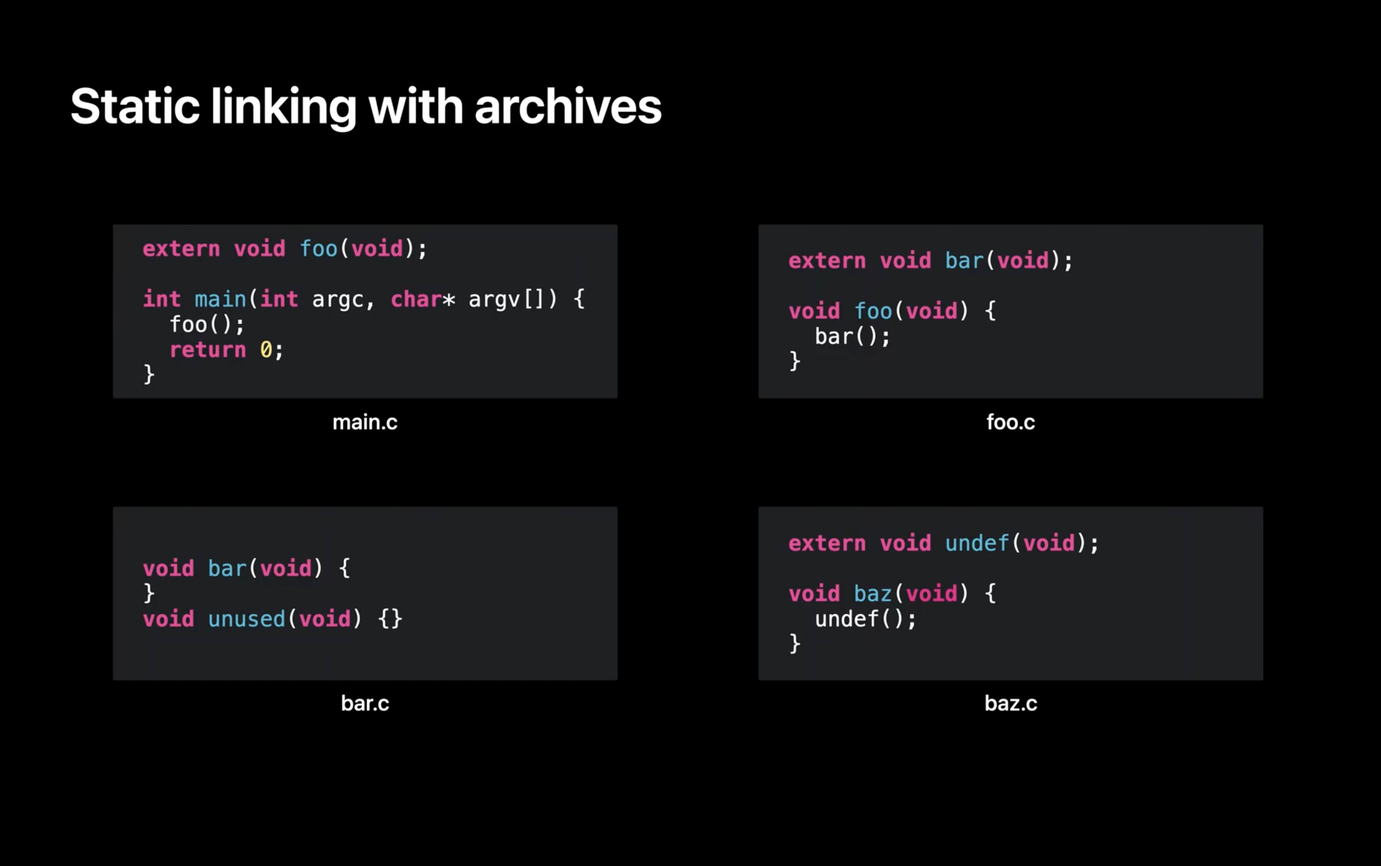
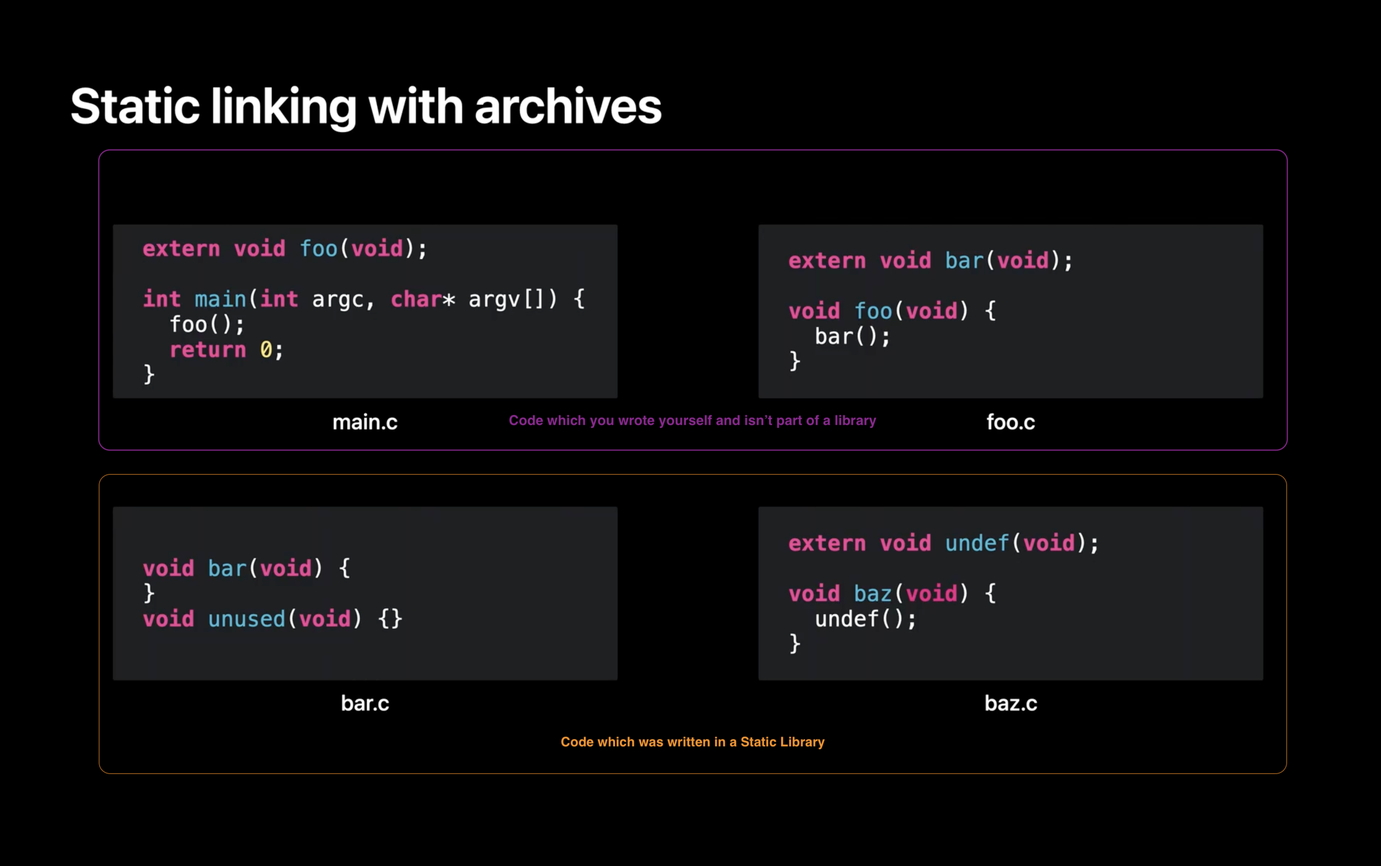
finished linker post with images + added notes to the jargon post

Changed region(s): [[0.3721, 0.4667, 0.6202, 0.4978], [0.4031, 0.84, 0.5892, 0.8711]]

diff --git a/content/posts/devtools/Optimizing App Size/How Does The Linker Help Reduce app Size/index.md b/content/posts/devtools/Optimizing App Size/How Does The Linker Help Reduce app Size/index.md
@@ -1,30 +1,34 @@
 ---
-title: "Optimizing Binaries - How Does the Linker Help Reduce App Size? What are the different types of linking"
-date: 2023-01-07T15:04:27-05:00
+title: "Optimizing Binaries - How Does the Linker Help Reduce App Size? What are the different types of linking - Part 1"
+date: 2023-07-04T15:04:27-05:00
 draft: true
 category: "Devtools"
 tags: ["Static Linking", "Dynamic Linking", "Static vs Dynamic Linking", ld, dyld]
+ShowToc: true
 ---
 
-In the previous post we talked about a problem with the linker: Linking a single function from a library could link to the _entire_ library. This creates a lot of bloat. 
-Some more enhancements were made to linker. 
+In the [previous post](https://mfaani.com/posts/devtools/optimizing-app-size/jargon/#a-big-final-program) we talked about a problem with the linker: Linking a single function from a library could link to the _entire_ library. This creates a lot of bloat. 
+As a result some enhancements were made to linker. The enhancement was to be selective and only load symbols that you need.
 
-But before we dive deeper, it's critical that I note something. To understand 'Static' vs 'Dynamic'. Don't try to compare 'Static Library' vs 'Dynamic Library'. Instead try to compare "Static Linking' vs. 'Dynamic Linking'. If you understand that then you understand everything else. 
+Inspired by [Link fast: Improve build and launch times - 4:15](https://developer.apple.com/videos/play/wwdc2022/110362/?time=255):
 
 ## Selective Loading
 
-In a nutshell if you have the following code: 
+In a nutshell if you have the following source code written in C:
 
-!["images/Static Linking"](static-linking-example.png)
+!["images/Static Linking"](images/static-linking-example.png)
 
-`extern` means that the function is coming from an external file. Without it the individual file won't compile.  
+`extern` means that the function is coming from an external file. Without mentioning `extern` the individual file won't compile. 
 
 ### File Structure
-- In main.c, there's a function called "main" that calls a function "foo". 
+
+As you can see above, some functions depend on other functions: 
+
+- In main.c, there's a function called main that calls a function foo. 
 - In foo.c, there is foo which calls bar. In bar.c, there is the implementation of bar but also an implementation of another function which happens to be unused. 
 - Lastly, in baz.c, there is a function baz which calls a function named undef. 
 
-Now we compile each to its own .o file. 
+Now we compile each to its own [.o file](https://mfaani.com/posts/devtools/optimizing-app-size/jargon/#files). 
 
 - foo, bar, and undef are undefined [They're marked with `extern` i.e. they're not defined within the file that attempts to use them]. That is, a use of a symbol and not a definition. 
 
@@ -32,6 +36,9 @@ Now, let's say you decide to combine bar.o and baz.o into a static library. Next
 
 ### How linker works
 First, the linker works through the files in command line order. The first it finds is main.o. It loads main.o and finds a definition for "main", shown here in the symbol table. But also finds that main has an undefined "foo". 
+
+- main is defined in main.o because we have its implementation and definition. 
+- foo is undefined, because we don't have its definition nor its implementation. We only know that it's external
 
 The linker then parses the next file on the command line which is foo.o. This file adds a definition of "foo". That means foo is no longer undefined. But loading foo.o also adds a new undefined symbol for "bar". 
 
@@ -43,12 +50,20 @@ At that point there are no longer any undefined symbols, so the linker stops pro
 
 The linker moves on to its next phase, and assigns addresses to all the functions and data that will be in the program. Then it copies all the functions and data to the output file. Et voila! You have your output program.
 
-## Still confused. Let's try answering some common questions:
+!["images/Static Linking"](images/static-linking-example-linked-object-files.png "The object files within the blue container are linked. The function named 'unused' is also linked. It's because its containing object file was needed because of the bar function")
 
-### When does the linker finish?
-As soon as they're no longer any undefined symbols. The linker is much like fixing a puzzle. You start with a piece, its edges need other pieces to complete. You keep on adding more pieces. You stop when the last piece is added. Since there's nothing more to add. 
+### Summary of Static Library
+
+You only include object files that you link against. If you don't link against them, then they don't get included in the final binary.
+
+With that said, the level of control for selecting source code is not the 'type level' nor 'function level'. It's at the 'file level'. This was demonstrated in the example above where `unused` function is linked into the final binary, while the entire baz object file is excluded.
+## Let's answer some common Linker questions:
+
+### When does the linker finish linking object files?
+As soon as they're no longer any undefined symbols. The linker is much like fixing a puzzle. You start with a piece, its edges need other pieces to complete. You keep on adding more pieces. You stop when the last piece is added. Anything remaining is redundant.
 
 ### How are the compiler and linker different? 
+See my previous post on [Optimzing App Size - Jargon#Concepts](http://localhost:1313/posts/devtools/optimizing-app-size/jargon/#concepts)
 The compiler needs to know what the other symbols are in order to compile code that uses them.  
 The linker combines these object code files into an executable. The linker needs to know where the other symbols are in order to link code objects that use them.
 
@@ -64,17 +79,15 @@ A bit more about the Linker:
 > All it does is move and patch code. It cannot create [object] code, and this is important and I will show that in the example. 
 > But we take these two kinds of input files. The first one being object files. Which are what come out of your build process. And the second one being libraries which consist of several types including dylibs, [tbd's](https://developer.apple.com/videos/play/wwdc2018/415/?time=2858), and .a files (or static archives).
 >
-> So what are symbols? A symbol is just a name to refer to a fragment of code or data.
-> These fragments may refer to other symbols which you would see if you write a function that calls another function.
-> Symbols can have attributes on them that affect how the linker behaves. And there are a lot of these. I'm just going to give you one example which is a _weak_ symbol. So a weak symbol is an annotation on a symbol that says it might not be there when we run the executable on the system. This is what all the availability markup that says this API is available on iOS 12. And this API's available on the iOS 11. This, that's what it all boils down to by the time it gets to the linker. So the linker can determine what symbols are definitely going to be there versus what symbols it may have to deal with at runtime.
->
-> from [here](https://developer.apple.com/videos/play/wwdc2018/415/?time=2673)
-#### Who generates the binary?
-The compiler doesn't generate an executable.
+> from [WWDC 2018 - Behind The Scenes of Xcode Build Process](https://developer.apple.com/videos/play/wwdc2018/415/?time=2673)
+
+Also See [Compiling and Linking - Alex Allain](https://www.cprogramming.com/compilingandlinking.html)
+#### Which tool generates the binary?
+The compiler doesn't generate an executable.  
 The linker does that. 
 
-#### Are they done in parallel? 
-Compilation is done in parallel.
+#### Is compilation and Linking done in parallel? 
+Compilation is done in parallel.  
 Linking is done serially — after all compilation is done. 
 
 #### What's the input/output of each?
@@ -84,35 +97,101 @@ Compiler will compile every piece of source code.
 The Linker will only link object files that are needed. If a certain object file / symbol isn't needed then it won't get linked. 
 
 #### Does Compilation take more time or linking?
-Usually compilation takes a lot more time, because there's a lot of static analysis that your compiler needs to do to validate everything. And while developers don't care if their build time took a couple seconds longe,  users certainly care significantly if the app launch took a few seconds. This is why finding the right balance between the right amount dynamic and static libraries is critical. 
+Usually compilation takes a lot more time, because there's a lot of static analysis that your compiler needs to do to validate everything. And while developers don't care if their build time took a couple seconds long,  users certainly care significantly if the app launch took a few seconds. This is why finding the right balance between the right amount dynamic and static libraries is critical. Apple recommends you try things out both ways and then profile things to make sure you're making the best decision. 
 
-#### How do you access symbols from another file?
-- Declare a header file. Include the header file where needed.
+### How do you access symbols from another file?
+Different languages have different ways of doing things. The different options are:
+
+- Declare a [header file](https://mfaani.com/posts/devtools/optimizing-app-size/jargon/#files). Include the header file where needed.
 - Use `extern` to mark a symbol as external to the current file. It will get resolved at link time. Swift doesn't use `extern`
 - Use a library and import everything within it.
 - Have a language construct along with certain build tools that understand how your code is to be packaged as a module. That is why you don't need to include a header, or mark as extern. The compiler just knows that foo, bar, baz are all part of the same module. Hence have access to the _internal_ symbols. This is how Swift works. You don't need to import/include the header file of another file in your same module. 
 
+## So with 'selective loading' we resolved the bloat issue. Are there any other issues with Static Linking? Why do we need dynamic linking?
 
-#### Do you ever link a static library into a dynamic library? 
-HELL NO!
+Think about how will adding libraries scale over time, as there is more and more source code. It should be clear that as more and more libraries are made available, the end program may grow in size. That means the static link time to build that program will also increase over time.
 
-You only link statically into an executable. If we have the possibility of linking the same (static) library with all dynamic libraries that need it. What happens instead is that each dynamic library also links back to other dynamic libraries within your app container. 
+What if we switched from using 'ar' to 'ld'? As a result the output of library is now an executable binary. This was the start of dynamic libraries in the '90s. As a shorthand, we call dynamic libraries "dylibs". On other platforms they are known as DSOs or DLLs. 
 
-## So what problems exist with Static Linking?
-Other than slower build times: 
+So what exactly is going on here? And how does that help the scalability? 
 
-- You'd have to link a library with all executables. This means if apps and app extension (appex) both need library Foo, then both need to link to it. As a result you end up patching Foo library 2 times. 
-- app code without the library is 20MB
-- appex code without the library is 10MB
+**The key is that the static linker treats linking with a dynamic library differently. Instead of copying code out of the library into the final program, the linker just records a kind of _promise_**. 
 
-Both link with Foo library statically. Assume both need all symbols in Foo library and Foo library is 5MB. 
-## Comparison of Static vs Dynamic
+That is, it records the symbol name used from the dynamic library and what the library's path will be at runtime. How is this an advantage? 
+
+1. It means **your program file size† is under your control**. It just contains your code, and a _list_ of dynamic libraries it needs at runtime. You no longer get copies of library code in your program. Your program's static link time is now proportional to the size of _your code_, and independent of the number of dylibs you link with. 
+
+2. Also, the Virtual Memory system can now shine. When it sees the same dynamic library used in multiple processes, the Virtual Memory system will re-use the same physical pages of RAM for that dylib in all processes that use that dylib. 
+
+3. Using dynamic libraries speed up _build time_. 
+
+4. You can share libraries with your other app extensions. 
+
+Let's assume you have: 
+- app code that without linking to another library has a size of 20MB
+- appex (app extension) that without linking to another library has a size of 7MB
+
+And both need to link to a static library named Foo. Assume Foo library is 5MB. Also assume both need all symbols in Foo library i.e. all symbols of Foo library will get linked. 
+
+In this scenario, your total app size is increased 5Mb when Foo library is statically linked into app's main binary. And also increased another 5Bm when Foo library is statically linked into the appex binary. 
+
+If Foo library was instead linked dynamically with both, then both it would increase the app size by only 5Mb, because the library can be shared. 
+
+I've shown you how dynamic libraries started and what problem they solve. But what are the "costs" for those "benefits"?
+
+1. Launching your app is now slower. This is because launching is no longer just loading one program file. Now all the dylibs also need to be loaded and connected together. In other words, you just _deferred_ some of the linking costs from _build_ time to _launch_ time. 
+
+2. A dynamic library based program will have more dirty pages. In the static library case, the linker would co-locate all globals from all static libraries into the same DATA pages in the main executable. But with dylibs, each library has its DATA page. 
+
+3. Dynamic linking is that it introduces the need for something new: a dynamic linker! Remember that promise that was recorded in the executable at build time? Now we need something at runtime that will fulfill that promise to load our library. That's what `dyld`, the **dynamic linker**, is for.
+
+†: Program file size does not mean the 'app size'. It means the [main app executable](https://mfaani.com/posts/devtools/optimizing-app-size/jargon/#files) size. Example, consider the following:   
+
+```
+Foo.app
+ - Foo (binary) <- Program file size refers to this. It does not refer to everything that's within the app.
+ - bar (dylib)
+ - baz (dylib)
+ - qux (dylib)
+```
+
+ One of the biggest size benefits of dynamic linking is when one of the dynamic libraries you link to, is a _system_ framework. In that case:
+ - You don't have to download/install that dynamic library. Because the library was there when you installed/updated the OS. In other words its size doesn't affect your app size. It only affects the OS size. 
+ - The OS can update the dynamic library and add new features without you having to do anything. This isn't a size impacting feature. But is also a worthy byproduct. 
+
+## Static Linking vs Dynamic Linking in more detail. 
+
+Before we dive deeper into static library vs dynamic library, it's critical to note something:
+
+In order to understand 'Static' vs 'Dynamic', don't try to compare 'Static Library' vs 'Dynamic Library'. Instead try to compare "Static Linking' vs. 'Dynamic Linking' i.e. focus on the manner of linking as opposed to the nature of the library itself. Once you understand Static vs Dynamic Linking then you can understand Static vs Dynamic Library. 
+
+At the high level, you defer linking to the library to runtime time. This comes with some benefits which we'll discuss. 
+
+### Can you link a library to another library? 
+
+Yes. It's very common to link a dynamic library to another. But you almost never link a static library into a dynamic library
+Unless the static library is exclusively used by the dynamic library.
+
+You mostly statically into an app's main executable. 
+
+The idea is:
+- Link things statically if they're always needed or if you want to reduce launch time. 
+- Link things dynamically if they're needed on demand or if you want to reduce build time. 
+
+That said statically linking to a dynamic library can happen and it will lead to hard to track bugs. See [Link fast: Improve build and launch times 15:16](https://developer.apple.com/videos/play/wwdc2022/110362/?time=916): 
+
+> When a static library is incorporated into multiple frameworks. Each of those frameworks runs fine in isolation, but then at some point, some app uses both frameworks, and boom, you get weird runtime issues because of the multiple definitions. The most common case you will see is the Objective-C runtime warning about multiple instances of the same class name. Overall, static libraries are powerful, but you need to understand them to avoid the pitfalls. 
+
+And this something difficult to anticipate. Hence it's better to just avoid static linking into a dynamic library. 
+
+
+### Static vs Dynamic Linking Table
 
 !["Static vs Dynamic Linking Comparison"](images/static-vs-dynaminc-linking.png)
 
 †: You can not share dylibs with apps outside your app container. Example The Facebook app and its Messenger app can't use the same dylib, even though they're from the same company. 
 
-#### Note: Apple Frameworks are special. Reasons:
+### Note: Apple Frameworks are special. Reasons:
 
 - **OS doesn't get bloated:** You link to them, but don't copy them. Also they can be shared between different apps of different companies. Example: The Uber and Lyft apps can use `MapKit.framework` without needing it to be included on the OS twice. Like imagine if there was a `Networking.framework` where app apps needed it for networking operations and since it couldn't be shared, all apps had to include a copy. That mean you'd have to store that framework as your apps.
 - **Your app gets new OS features without needing you needing to go through the distribution process again:** Apple Frameworks change with every iOS update. However we don't have to compile our apps again with with the newer iOS version. This is because the newer iOS versions almost never make breaking changes. Apple just dynamically links our app with a newer version of `MapKit.framework`, a newer version of `Networking.framework` and voila! Things just work. 
@@ -123,14 +202,8 @@ Had Apple made their system libraries static then every app would have needed to
 - Re-link upon any change in a framework. -> A whole lot more app distribution overhead. 
 - Apps will launch slightly slower because instead of using a _shared_ `Network.framework` already in memory, they now have a bigger binary that takes more time to load.
 
+## References
 To better understand static and dynamic libraries, I highly recommend going through this [fantastic tutorial](https://medium.com/karlmax-berlin/sub-modules-for-xcode-acb6b1e5f567) written by [Ralph Bergmann](https://twitter.com/Ralph__Bergmann) for how to create your own dynamic frameworks or static libraries. Going through the tutorial helped me see: 
 1. How I can simply create libraries **without CocoaPods**. 
 3. Then I inspected each build folder along with the Products folder.
 2. The drastic differences between the Xcode setup between a static library vs a framework. 
-
-### What's the difference between build folder and Product folder? 
-When you want to make a cake, you need flour, milk, sugar, cream, eggs, etc. All of those are intermediate like objects. Anything intermediate goes into the build folder. 
-The final product, the cake is what goes in the Product folder. The final cake has the flour, milk, sugar and all, but its glued together in a certain structure. Apple has some pre-defined structures like app bundle or framework bundle. For more on the details of those structures see docs on [Placing Content in a Bundle](https://developer.apple.com/documentation/bundleresources/placing_content_in_a_bundle)
-
-## References
-[Mach-O Programming Topics](https://developer.apple.com/library/archive/documentation/DeveloperTools/Conceptual/MachOTopics/1-Articles/building_files.html)

diff --git a/content/posts/devtools/Optimizing App Size/Jargon/index.md b/content/posts/devtools/Optimizing App Size/Jargon/index.md
@@ -50,7 +50,7 @@ Other languages have _header files_ which they include. Swift is made more simpl
     - Can't be used to compile swift files. Must use `swiftc` instead.
 - `clang`: Apple's compiler for the C family language (C, C++, Objective-C, Objective-C++). `cc` is more of a universal term. 
 - `swiftc`: Apple's compiler for the Swift language. 
-- `ld`: The Linker. Converts `.o` files into an executable. Also known as the Static linker. This is a very important part of the whole build process.
+- `ld`: The Linker. Converts `.o` files into an executable. Also known as the Static linker. This is an extremely important part of the whole build process.
 - `ar`: An archiving tool. Helps to combine files together. Originally used for backups and distributions. Converts multiple `.o` files into a `.a` file. The difference between `ar` and `ld` is that:
     - `ar` just groups together object files. The product of that is a static library. 
     - `ld` creates an app or a dylib. And can do such with some (stripping related) optimizations. 
@@ -59,7 +59,18 @@ Other languages have _header files_ which they include. Swift is made more simpl
 
 ## Concepts
 - Compilation: Converting source code within a single file into machine code. 0s and 1s. The output of compiling a single file is a single object file. 
+- Machine Code: Anything that's written in zeros and ones. So the CPU can understand them. You may compile a single file into machine code, but that doesn't mean that the single machine code instructions is enough to execute something. Often you need multiple machine code instructions to be able to complete some basic operations. 
 - Linking: Piecing different object files together to create a binary. 
+
+To put all these concepts together. See the following images: 
+
+### High Level
+!["/Short and High Level Build Pipeline"](images/high-level.png "Every file is compiled into Machine Code. Then Linker links the necessary object files together.")
+### 1. Compilation
+!["/Short and High Level Build Pipeline"](images/compilation.png "Every file is compiled into Machine Code. An individual Object file is useless. It needs all its other missing pieces to create a functioning application.")
+### 2. Linking
+!["/Short and High Level Build Pipeline"](images/linking.png "The linker starts from a point of entry, usually the main function and then tries to find all its undefined dependencies (any function/variable that's not defined in main). For each of those dependencies it has find their depenedencies as well. Once all are find, it stops linking. The product of linking all object files together is your app (or depending on your need your dynamic library's) binary.")
+
 
 ## Quick Summary - How do all the tools and files work together? 
 1. All source files are compiled into an intermediate file known as object code/file (.o file)
@@ -121,6 +132,21 @@ To see what steps were performed for your recent build you can use the [Report N
 - Emebedded Content: App Extensions. There's no linking involved. Yet you have to copy them into your app bundle. 
 
 Essentially all three are different form of dependencies of your app's main executable. 
+
+### What's the difference between 'Build folder' and 'Product folder'? 
+When you want to make a cake, you need flour, milk, sugar, cream, eggs, chocolate chips, oven, mixer, etc. All of those are intermediary objects. Anything intermediate goes into the build folder. 
+The final product, the cake is what goes in the Product folder. The final cake has the flour, milk, sugar and all, but its glued together in a certain structure. Thought the chocolate chips are distinguishable from the cake. The rest are not. 
+
+Building an app is similar to that. In the build folder you'd see the built static and dynamic libraries.  
+However in the Products folder, you see the app's main executable and its dynamic library. The static libraries are already merged into the app's main executable. 
+
+If you deleted the Build Folder, then app will still get ran on the device/simulator. However if you deleted the Products folder, then you need to produce those again. The Product is what's needed to _run_ the app. The build folder is what's needed to just _build_. Real world users when they unpack the app, they end up with something very similar to what we have in the Products folder. 
+
+Why is this important? It's important to understand because if you ever need to dig into the products folder to find your static library, well you'll _never_ find it. You have to go looking for it in the Build folder as static libraries get merged into the app's executable. 
+ 
+
+FYI Apple has some pre-defined structures like app bundle or framework bundle. For more on the details of those structures see docs on [Placing Content in a Bundle](https://developer.apple.com/documentation/bundleresources/placing_content_in_a_bundle).
+
 ## Summary
 
 ### 1 - Dependency Order

diff --git a/content/posts/drafts/findings.md b/content/posts/drafts/findings.md
@@ -260,7 +260,18 @@ https://stackoverflow.com/questions/46077700/what-does-strip-swift-symbols-in-xc
 |    Location in App Wrapper    | It becomes part of the app's main executable binary |  Within the `.app` bundle under the `/Frameworks`. e.g. `/Frameworks/fun.Framework/fun` (along with other needed resources) |
 |   Ability to Share            | Since it's indistinguishable from the app's binary it can't be shared with another binary/process | The binary can get shared with other processes or dylibs within the app container. You can share a framework between your app and all extensions.† |
 |       dSYM location           | its debug symbols will be part of the app's main executable | its debug symbols will separate from the app's main executable |
-|       tool used to link       | `ld` | `ld` during compilation. `dyld` at runtime |
-|       tool used to create     | `ar` the archiver | `ld` the linker |
+|       Tool used to link       | `ld` | `ld` during compilation. `dyld` at runtime |
+|       Tool used to create     | `ar` the archiver | `ld` the linker |
 |       How to strip            | Will use same stripping flags main app's executable | must be stripped individually |
----------
+|      tldr                     | Linked at compile time. Faster Launch Times. Absorbed into main executable. Hence unshareable across binaries | Linked at runtime. Faster Build Times. Usually upon launch. Is its own binary. Hence shareable with other binaries within the _same_ app. Apple is special and can even share OS libraries between apps. |
+
+†: You can not share dylibs with apps outside your app container. Example The Facebook app and its Messenger app can't use the same dylib, even though they're from the same company.                           
+                                                                                                                     **Mohammad Faani    |   mfaani.com** 
+
+
+> So what are symbols? A symbol is just a name to refer to a fragment of code or data.
+> These fragments may refer to other symbols which you would see if you write a function that calls another function.
+> Symbols can have attributes on them that affect how the linker behaves. And there are a lot of these. I'm just going to give you one example which is a _weak_ symbol. So a weak symbol is an annotation on a symbol that says it might not be there when we run the executable on the system. This is what all the availability markup that says this API is available on iOS 12. And this API's available on the iOS 11. This, that's what it all boils down to by the time it gets to the linker. So the linker can determine what symbols are definitely going to be there versus what symbols it may have to deal with at runtime.
+>
+
+

diff --git a/content/posts/drafts/everything-i-learned-about-blogging-with-hugo.md b/content/posts/drafts/everything-i-learned-about-blogging-with-hugo.md
@@ -6,6 +6,8 @@ draft: true
 tags: ["hugo", "content-creation", "blogging"]
 ---
 
+- Add `ShowToc: true` to your frontmatter to show table of content. But its UX can be significantly improved. 
+- Links can die. Like Apple can remove its WWDC video. So make sure you annotate the link as much as possible. Example, don't just share the link to the session. Share the link and the name, year and minute of the session. That way folks can perhaps google it and find it. 
 - Instead of just sharing a link or what originated, share a good teaser of your post and just add a link. That way you at least get traction from where you posted it (Twitter, Slack). If anyone was interested they'll click to see more.
 - Don't over explain things. Or at least don't over explain too many things in a blog post. Maybe just go deep for a single thing. Not 5 things at once. Or if someone has already done it, then you don't need to re-say it. Just link to theirs. 
 tldr it's hard to have breadth and depth in the same post...

diff --git a/content/posts/devtools/how-to-have-different-git-config-per-directory.md b/content/posts/devtools/how-to-have-different-git-config-per-directory.md
@@ -1,0 +1,9 @@
+---
+title: "How to Have Different Git Config per Directory"
+date: 2023-06-08T18:06:13-04:00
+draft: true
+---
+
+There's a simple condition you can add. There are some nuances. Took me a bit to piece it all together. 
+
+Just add an if condition like below **at the end** of your git config. 
